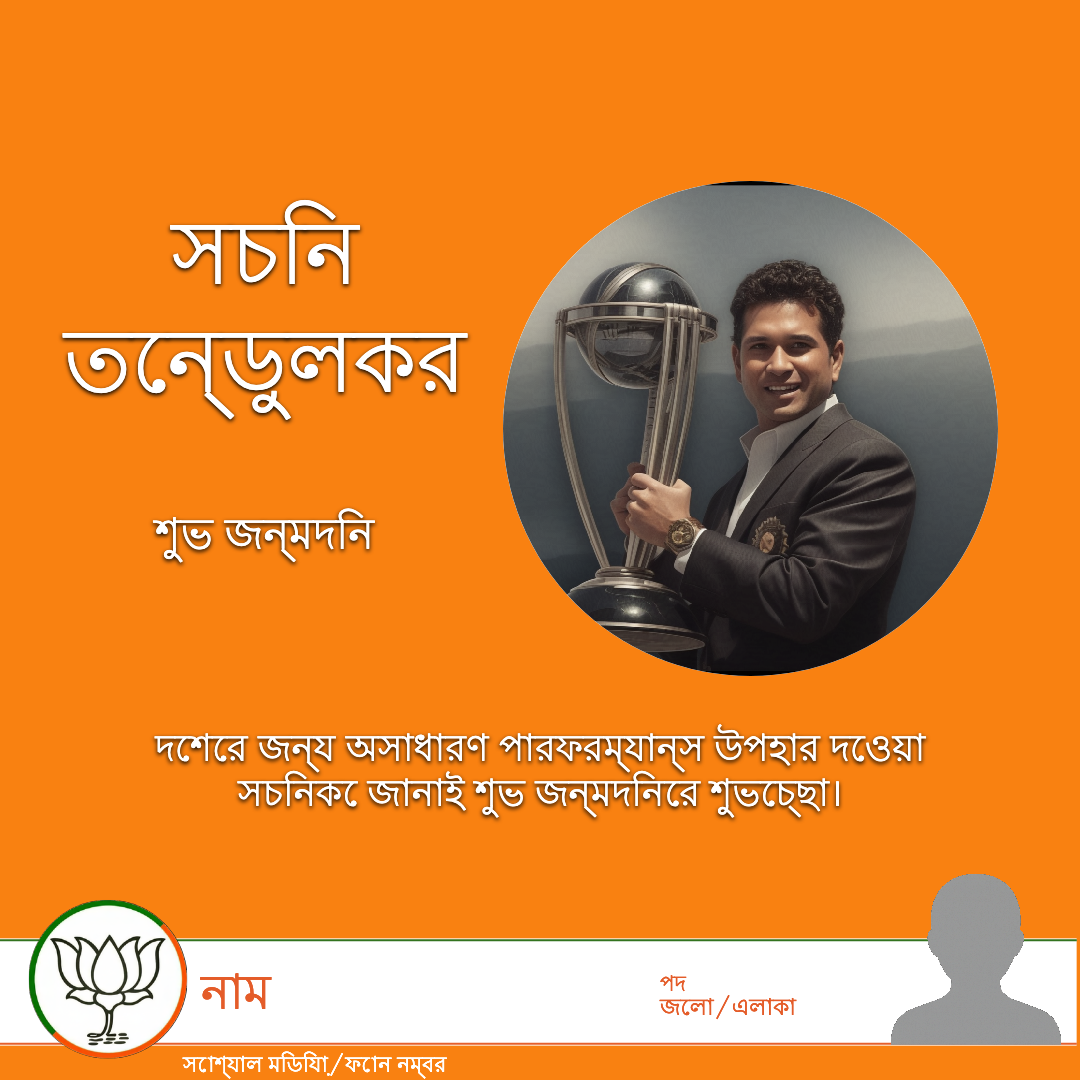
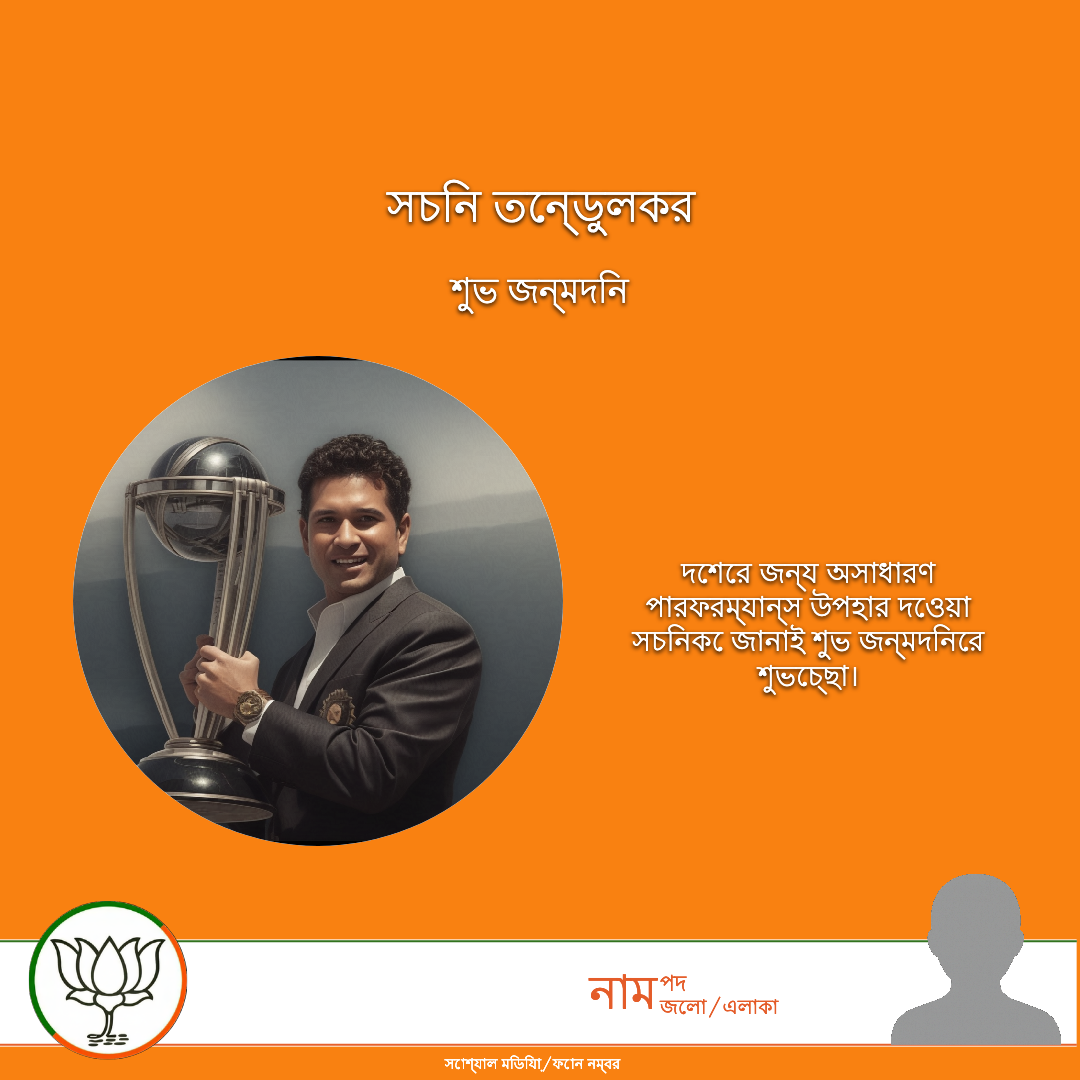
Fix text align logic

diff --git a/skia_poster_generator/generate_thumbnial_skia.py b/skia_poster_generator/generate_thumbnial_skia.py
@@ -54,10 +54,14 @@ def get_skia_font_weight(font_weight_str):
     }
     return weights.get(font_weight_str, skia.FontStyle.kNormal_Weight)
 
-def get_skia_text_align(text_align_str):
-    if text_align_str == "center":
+def get_skia_text_align(text_align_str, box_alignment=None, is_multiline=False):
+    # For multiline text, use text_align_str if provided, otherwise use box_alignment
+    # For single line text, always use box_alignment
+    align = text_align_str if is_multiline and text_align_str else box_alignment
+    
+    if align == "center":
         return skia.TextBlobBuilder.kCenter_Align
-    elif text_align_str == "right":
+    elif align == "right":
         return skia.TextBlobBuilder.kRight_Align
     return skia.TextBlobBuilder.kLeft_Align # Default for null or "left"
 
@@ -335,9 +339,14 @@ def render_template_element_skia(canvas, element_data, parent_canvas_width, pare
             font_weight_str = style.get('font_weight', 'FontWeight.w400')
             is_italic = style.get('is_italic', False)
             is_underlined = style.get('is_underlined', False)
-            text_align_style = style.get('text_align') # Can be None
-
-            # Calculate font size based on the element's own width, matching Flutter implementation
+            # Get text alignment from box and style
+            box_alignment = box.get('alignment')
+            text_align_style = style.get('text_align')
+            
+            # Check if text is multiline
+            lines = text_to_render.split('\n')
+            is_multiline = len(lines) > 1
+            
             initial_font_size_px = max(1.0, (font_size_vw / 100.0) * el_width)
             skia_font_weight = get_skia_font_weight(font_weight_str)
             skia_font_slant = skia.FontStyle.kItalic_Slant if is_italic else skia.FontStyle.kUpright_Slant
@@ -434,12 +443,23 @@ def render_template_element_skia(canvas, element_data, parent_canvas_width, pare
 
             for line_text in final_lines:
                 line_width = final_font.measureText(line_text)
-                x_text_offset = 0
-                if text_align_style == 'center':
-                    x_text_offset = (el_width - line_width) / 2
-                elif text_align_style == 'right':
-                    x_text_offset = el_width - line_width
-                
+                # Calculate x_offset based on box alignment for single line text
+                # or text_align for multiline text
+                line_width = final_font.measureText(line_text)
+                if is_multiline:
+                    if text_align_style == 'center':
+                        x_text_offset = (el_width - line_width) / 2
+                    elif text_align_style == 'right':
+                        x_text_offset = el_width - line_width
+                    else: # left or None
+                        x_text_offset = 0
+                else:
+                    if box_alignment == 'center':
+                        x_text_offset = (el_width - line_width) / 2
+                    elif box_alignment == 'right':
+                        x_text_offset = el_width - line_width
+                    else: # left or None
+                        x_text_offset = 0
                 print(f"[DEBUG] Drawing text line: '{line_text}', x: {x_text_offset}, y: {y_cursor}, width: {line_width}")
                 if 'text_shadow' in style:
                     shadow_paint, shadow_x, shadow_y = apply_shadow_paint(canvas, text_paint, style['text_shadow'])
